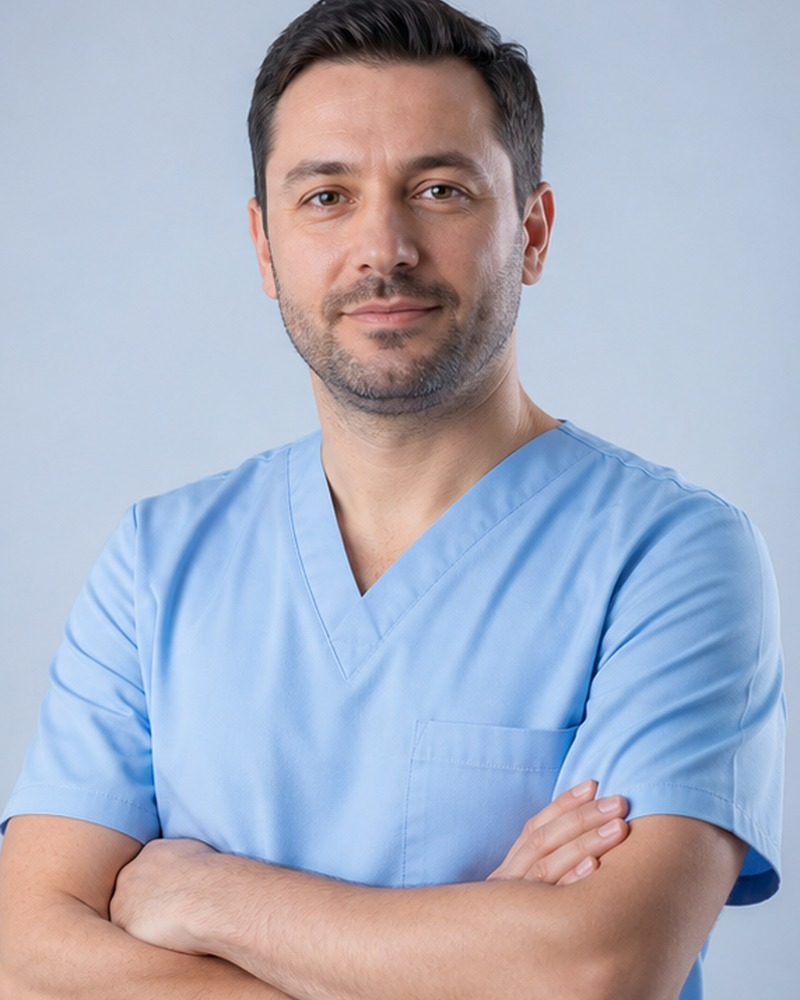
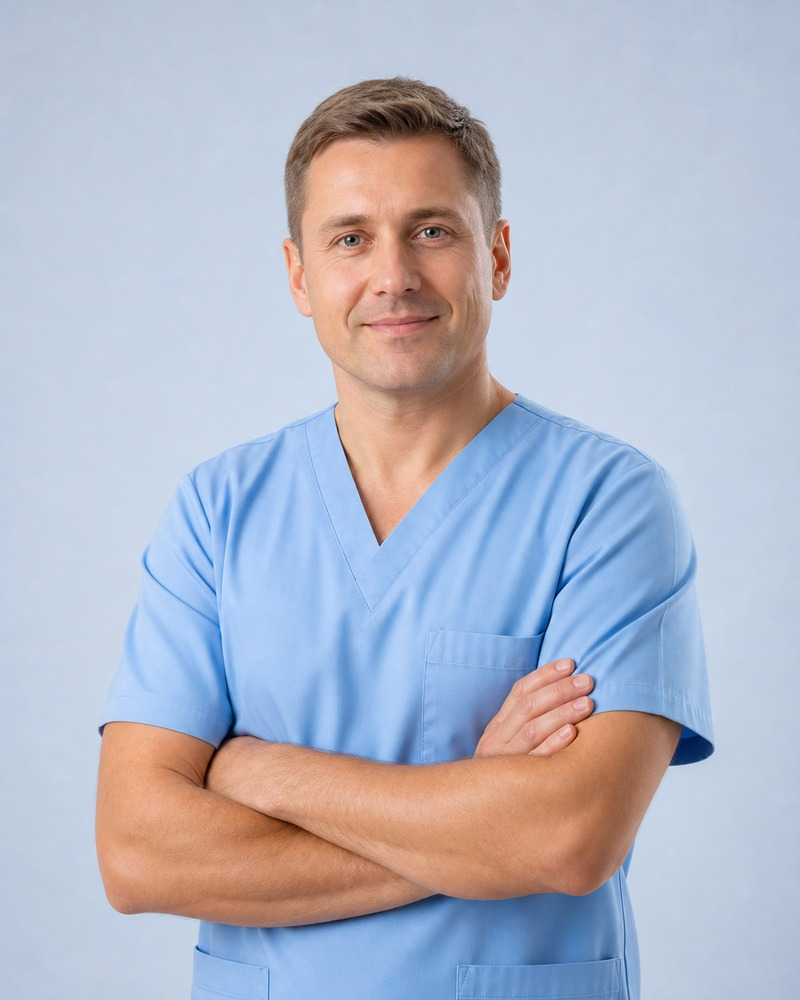
Refine pricing copy and team portrait

diff --git a/index.html b/index.html
@@ -425,8 +425,8 @@
     <div class="container">
       <div class="section-header reveal">
         <span class="eyebrow">Tarife</span>
-        <h2>Prețuri clare, comunicate dinainte</h2>
-        <p>Toate prețurile sunt comunicate înainte de a începe orice program.</p>
+        <h2>Planul potrivit</h2>
+        <p>Începem cu o evaluare, apoi alegi împreună cu terapeutul varianta care are sens pentru recuperarea ta.</p>
       </div>
       <div class="pricing-grid">
         <div class="price-card reveal">

diff --git a/tarife.html b/tarife.html
@@ -43,8 +43,8 @@
     <div class="container">
       <div class="subpage-hero-content reveal">
         <span class="eyebrow">Tarife</span>
-        <h1>Prețuri clare, comunicate dinainte</h1>
-        <p>Toate prețurile sunt comunicate înainte de a începe orice program. Pentru cazuri complexe, ajustăm pachetele la nevoile tale.</p>
+        <h1>Planul potrivit</h1>
+        <p>Începem cu o evaluare, apoi alegi împreună cu terapeutul varianta care are sens pentru recuperarea ta.</p>
       </div>
     </div>
   </section>